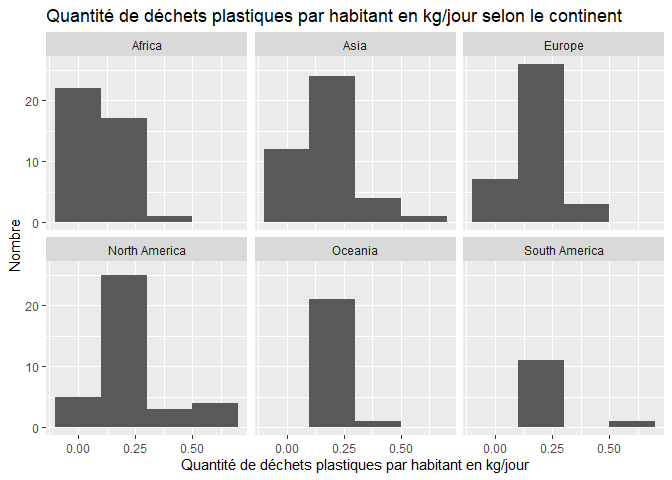
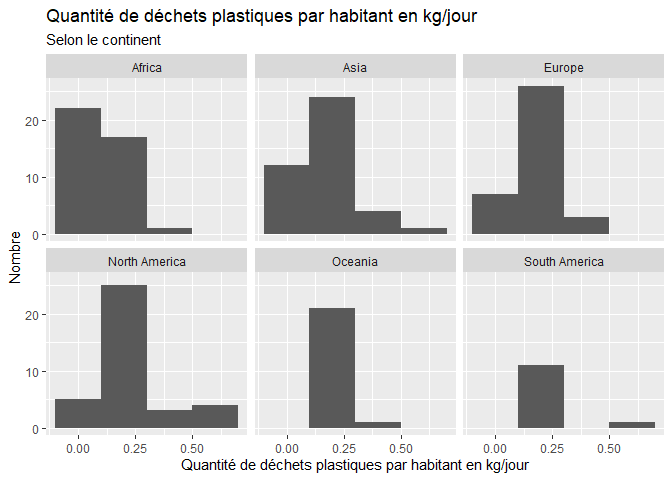
mise à jour finale

diff --git a/lab-02.md b/lab-02.md
@@ -29,7 +29,7 @@ plastic_waste <- plastic_waste %>%
 ggplot(data = plastic_waste, aes(x = plastic_waste_per_cap)) +
   geom_histogram(binwidth = 0.2)+
   facet_wrap(.~continent)+
-  labs(title = "Quantité de déchets plastiques par habitant en kg/jour selon le continent", x = "Quantité de déchets plastiques par habitant en kg/jour", y = "Nombre")
+  labs(title = "Quantité de déchets plastiques par habitant en kg/jour", subtitle = "Selon le continent", x = "Quantité de déchets plastiques par habitant en kg/jour", y = "Nombre")
 ```
 
 ![](lab-02_files/figure-gfm/plastic-waste-continent-1.png)<!-- -->
@@ -42,7 +42,7 @@ Océanie et en Amérique du sud.
 ``` r
 ggplot(data = plastic_waste, aes(x = plastic_waste_per_cap, color = continent, fill = continent)) +
   geom_density(alpha = 0.5)+
-  labs(title= "Densité de déchets plastiques par habitant en kg/jour selon le continent", x = "Quantité de déchets plastiques par habitant en kg/jour", y = "Densité")
+  labs(title= "Densité de déchets plastiques par habitant en kg/jour", subtitle = "Selon le continent", x = "Quantité de déchets plastiques par habitant en kg/jour", y = "Densité", color = "Continent", fill = "Continent")
 ```
 
 ![](lab-02_files/figure-gfm/plastic-waste-density-1.png)<!-- -->
@@ -85,7 +85,7 @@ contrairement aux boxplots.
 ``` r
 ggplot(data = plastic_waste, aes(x = plastic_waste_per_cap, y = mismanaged_plastic_waste_per_cap, color = continent)) +
   geom_point()+
-  labs(title = "Relation entre les déchets plastiques et ceux non gérés ", x = "Quantité de déchets plastiques par habitant en kg/jour ", y = "Quantité de déchets plastiques non gérés")
+  labs(title = "Relation entre les déchets plastiques et ceux non gérés ", subtitle = "Selon le continent", x = "Quantité de déchets plastiques par habitant en kg/jour ", y = "Quantité de déchets plastiques non gérés", color = "Continent")
 ```
 
 ![](lab-02_files/figure-gfm/plastic-waste-mismanaged-1.png)<!-- -->
@@ -124,3 +124,30 @@ une relation un peu plus forte pour la population costale.
 ## Conclusion
 
 Recréez la visualisation:
+
+``` r
+ggplot(data = plastic_waste, aes(y = plastic_waste_per_cap, x = coastal_pop/total_pop, color = continent))+
+  geom_point()+
+  geom_smooth(method ="loess",
+              se = TRUE,
+              color = "black")+
+  theme_minimal()+
+  labs(title = "Quantité de déchets plastiques vs Population côtière",
+       subtitle = "Selon le continent", x = "Proportion de la population côtière (Coastal/total population)", y = "Nombre de déchets platiques par habitant", color = "Continent")
+```
+
+    ## `geom_smooth()` using formula = 'y ~ x'
+
+    ## Warning: Removed 10 rows containing non-finite outside the scale range
+    ## (`stat_smooth()`).
+
+    ## Warning: Removed 10 rows containing missing values or values outside the scale range
+    ## (`geom_point()`).
+
+![](lab-02_files/figure-gfm/recreate-viz-1.png)<!-- -->
+
+Dans ce graphe, on peut observer la tendance globale grâce à la ligne
+noire et la bande grise. Cette tendance n’est pas linéaire, car les
+points sont plutôt dispersés. La relation est donc faible, mais là tout
+de même : la population côtière auraient tendance à avoir plus de
+déchets plastiques (relation faible).
